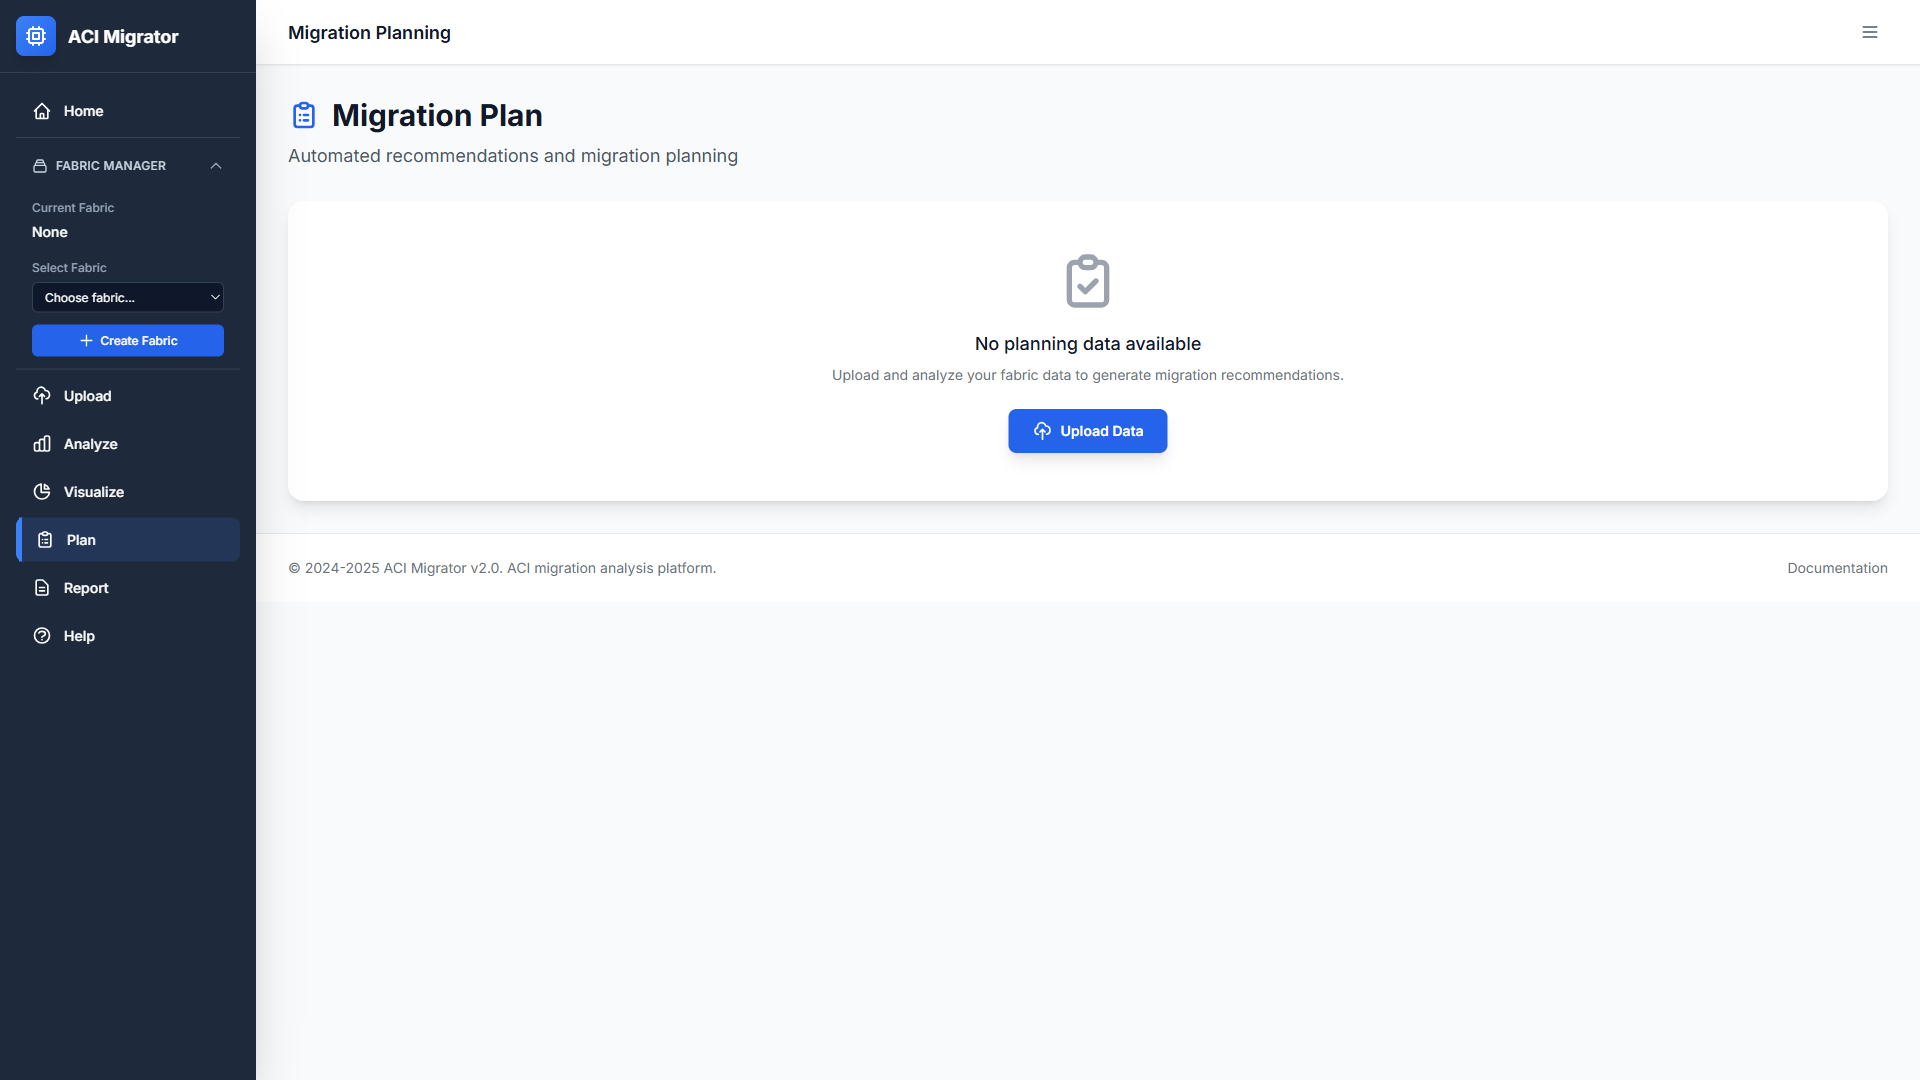
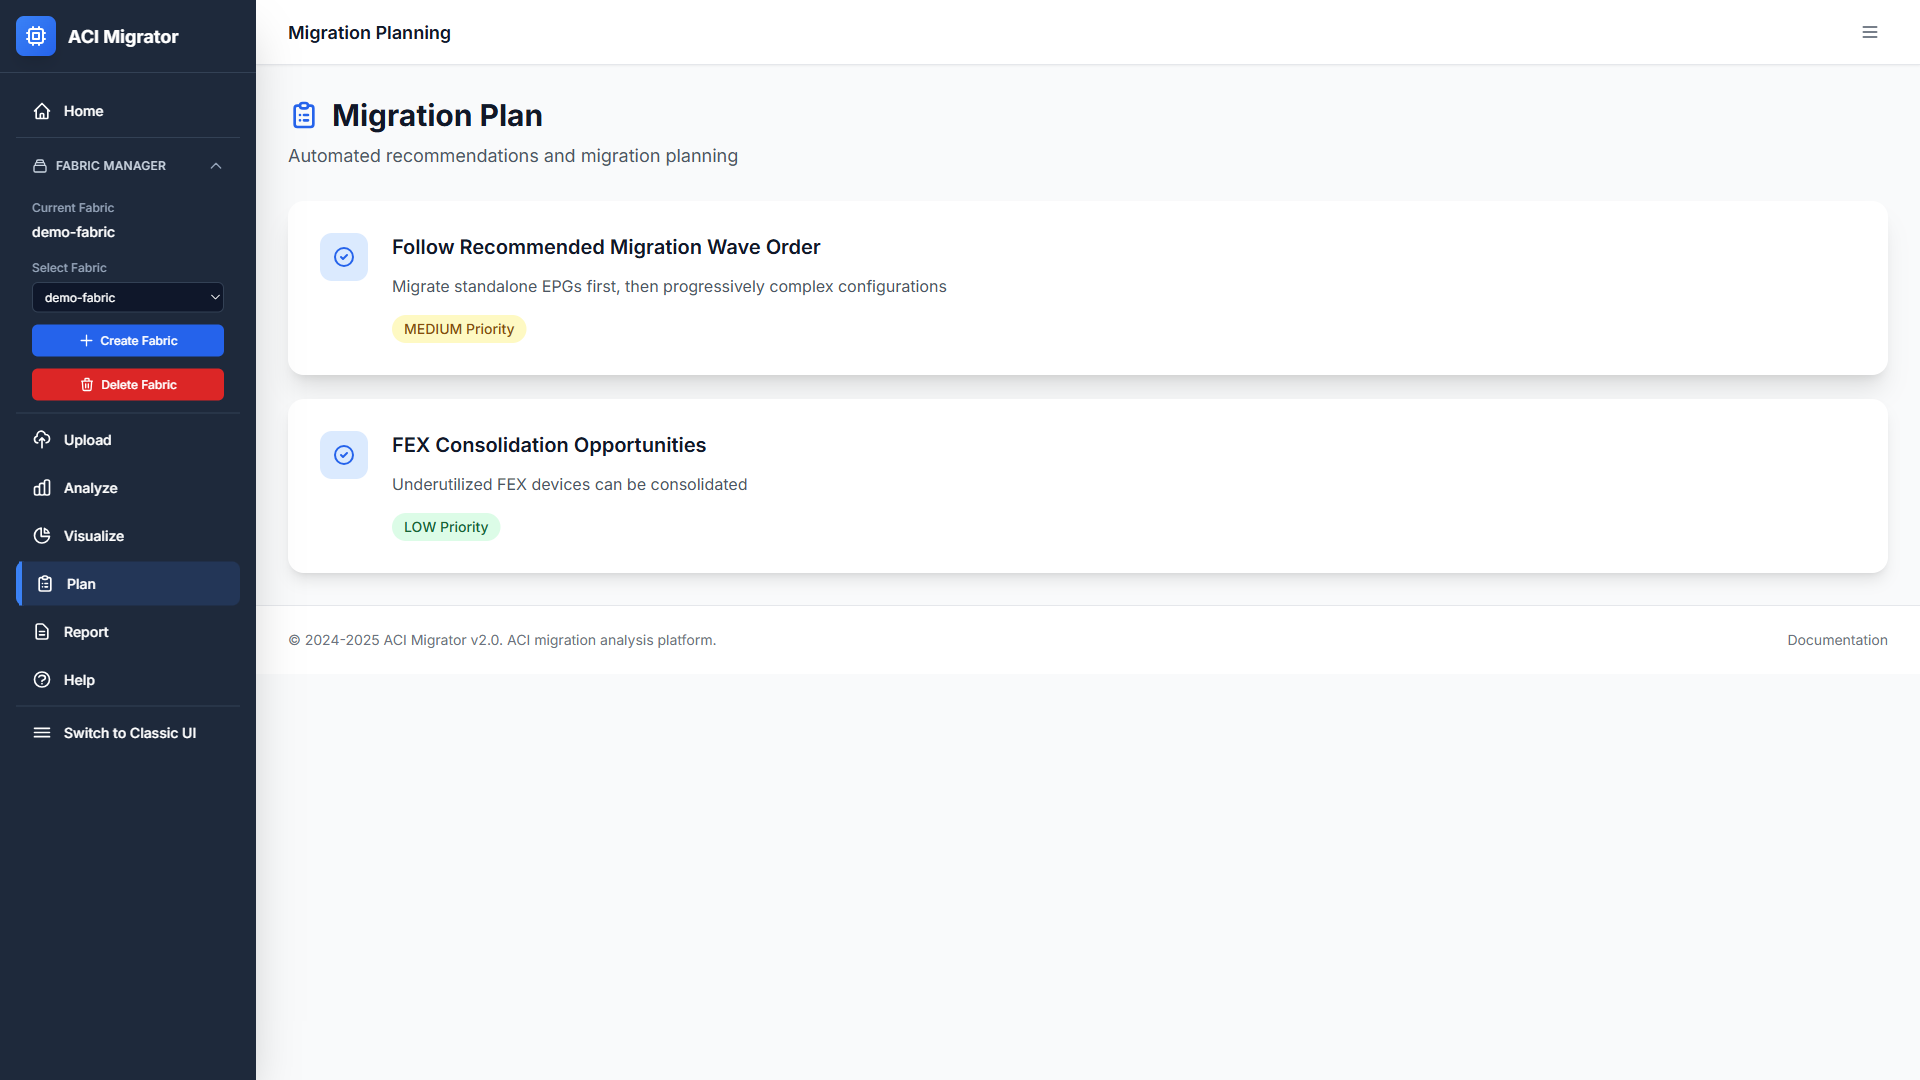
Update README screenshots and capture workflow

diff --git a/capture_screenshots.py b/capture_screenshots.py
@@ -6,6 +6,9 @@ Captures all required UI screenshots for README.md
 import os
 import sys
 import time
+import json
+import urllib.request
+import urllib.error
 from playwright.sync_api import sync_playwright
 
 # Set UTF-8 encoding for console output on Windows
@@ -13,16 +16,64 @@ if sys.platform == 'win32':
     sys.stdout.reconfigure(encoding='utf-8')
 
 # Configuration
-BASE_URL = "http://127.0.0.1:5000"
 SCREENSHOTS_DIR = "docs/screenshots"
 VIEWPORT = {"width": 1920, "height": 1080}
 
 # Create screenshots directory if it doesn't exist
 os.makedirs(SCREENSHOTS_DIR, exist_ok=True)
 
+def resolve_base_url():
+    env_url = os.getenv("ACI_BASE_URL")
+    if env_url:
+        return env_url.rstrip("/")
+
+    candidate_ports = list(range(5001, 5051)) + [5000]
+    for port in candidate_ports:
+        url = f"http://127.0.0.1:{port}"
+        try:
+            with urllib.request.urlopen(f"{url}/health", timeout=2) as resp:
+                if resp.status == 200:
+                    return url
+        except Exception:
+            continue
+
+    raise RuntimeError("Could not detect running ACI Migrator instance on 127.0.0.1:5000-5050")
+
+
+def prepare_demo_data(page, base_url):
+    """Ensure a demo fabric exists and mock data is loaded for screenshots."""
+    demo_fabric = "demo-fabric"
+    page.goto(f"{base_url}/ui/select?mode=legacy&next=/", wait_until="networkidle", timeout=30000)
+
+    js = f"""
+    (async () => {{
+        const fabricName = "{demo_fabric}";
+        try {{
+            await fetch('/fabrics', {{
+                method: 'POST',
+                headers: {{'Content-Type': 'application/json'}},
+                body: JSON.stringify({{name: fabricName}})
+            }});
+        }} catch (e) {{}}
+
+        try {{
+            await fetch('/api/mcp/import', {{
+                method: 'POST',
+                headers: {{'Content-Type': 'application/json'}},
+                body: JSON.stringify({{mcp_url: 'mock', fabric_name: fabricName}})
+            }});
+        }} catch (e) {{}}
+    }})()
+    """
+    page.evaluate(js)
+    page.wait_for_timeout(1500)
+
 def capture_screenshots():
     """Capture all required screenshots"""
     print("Starting screenshot capture for ACI Migrator v2.0...")
+
+    base_url = resolve_base_url()
+    print(f"Using base URL: {base_url}")
 
     with sync_playwright() as p:
         # Launch browser
@@ -31,11 +82,19 @@ def capture_screenshots():
         context = browser.new_context(viewport=VIEWPORT)
         page = context.new_page()
 
+        prepare_demo_data(page, base_url)
+
         screenshots = [
             {
-                "name": "home.png",
-                "url": "/",
-                "title": "Dashboard/Home Page",
+                "name": "home-classic.png",
+                "url": "/ui/select?mode=legacy&next=/",
+                "title": "Dashboard/Home Page (Classic UI)",
+                "wait": 2000
+            },
+            {
+                "name": "home-new.png",
+                "url": "/ui/select?mode=new&next=/",
+                "title": "Dashboard/Home Page (New UI)",
                 "wait": 2000
             },
             {
@@ -49,6 +108,34 @@ def capture_screenshots():
                 "url": "/analyze",
                 "title": "Analyze Data Page",
                 "wait": 1500
+            },
+            {
+                "name": "analyze-validation.png",
+                "url": "/analyze",
+                "title": "Analyze Validation Tab",
+                "wait": 1500,
+                "tab": "validation"
+            },
+            {
+                "name": "analyze-data-explorer.png",
+                "url": "/analyze",
+                "title": "Analyze Data Explorer Tab",
+                "wait": 1500,
+                "tab": "data"
+            },
+            {
+                "name": "analyze-spreadsheet.png",
+                "url": "/analyze",
+                "title": "Analyze Spreadsheet Tab",
+                "wait": 1500,
+                "tab": "spreadsheet"
+            },
+            {
+                "name": "analyze-ports.png",
+                "url": "/analyze",
+                "title": "Analyze Port Status Tab",
+                "wait": 1500,
+                "tab": "ports"
             },
             {
                 "name": "visualize.png",
@@ -75,12 +162,17 @@ def capture_screenshots():
                 print(f"\n[{i}/{len(screenshots)}] Capturing {screenshot['title']}...")
 
                 # Navigate to page
-                url = f"{BASE_URL}{screenshot['url']}"
+                url = f"{base_url}{screenshot['url']}"
                 print(f"   URL: {url}")
                 page.goto(url, wait_until="networkidle", timeout=30000)
 
                 # Wait for animations and content to load
                 page.wait_for_timeout(screenshot['wait'])
+
+                if screenshot.get("tab"):
+                    tab_selector = f"button.analysis-tab[data-panel='{screenshot['tab']}']"
+                    page.click(tab_selector, timeout=10000)
+                    page.wait_for_timeout(800)
 
                 # Take screenshot
                 filepath = os.path.join(SCREENSHOTS_DIR, screenshot['name'])
@@ -96,7 +188,7 @@ def capture_screenshots():
         # Optional: Capture sidebar collapsed view
         try:
             print("\n[Extra] Capturing Sidebar Collapsed View...")
-            page.goto(f"{BASE_URL}/", wait_until="networkidle")
+            page.goto(f"{base_url}/ui/select?mode=legacy&next=/", wait_until="networkidle")
             page.wait_for_timeout(1000)
 
             try:
@@ -123,7 +215,7 @@ def capture_screenshots():
                 user_agent="Mozilla/5.0 (iPhone; CPU iPhone OS 14_0 like Mac OS X) AppleWebKit/605.1.15"
             )
             mobile_page = mobile_context.new_page()
-            mobile_page.goto(f"{BASE_URL}/", wait_until="networkidle")
+            mobile_page.goto(f"{base_url}/ui/select?mode=legacy&next=/", wait_until="networkidle")
             mobile_page.wait_for_timeout(2000)
 
             filepath = os.path.join(SCREENSHOTS_DIR, "mobile-view.png")
@@ -152,7 +244,7 @@ if __name__ == "__main__":
     print("ACI Migrator v2.0 Screenshot Capture Tool")
     print("=" * 70)
     print("\nIMPORTANT: Make sure the Flask application is running.")
-    print(f"Expected URL: {BASE_URL}")
+    print("Expected URL: http://127.0.0.1:<port>")
     print("\nPress Ctrl+C to cancel, or wait 3 seconds to continue...")
 
     try:

diff --git a/README.md b/README.md
@@ -72,25 +72,45 @@ Export comprehensive analysis reports in multiple formats including HTML (intera
 
 ## Screenshots
 
-### Dashboard with Sidebar Navigation
-The professional sidebar navigation provides quick access to all features with collapsible menu and integrated fabric manager.
+### Home (Classic UI)
+The classic dashboard layout with sidebar navigation and fabric manager.
 
-![Dashboard](docs/screenshots/home.png)
+![Home Classic](docs/screenshots/home-classic.png)
 
-**Key Sidebar Features:**
-- Quick navigation to all pages (Home, Upload, Analyze, Visualize, Plan, Report, Help)
-- Integrated Fabric Manager (collapsible panel)
-- Responsive design with mobile support
+### Home (New UI)
+Mission-control layout with a clearer workflow orientation.
+
+![Home New](docs/screenshots/home-new.png)
 
 ### Data Upload Interface
 Drag-and-drop file upload with real-time progress tracking and multi-file queue management.
 
 ![Upload](docs/screenshots/upload.png)
 
-### Analysis Dashboard
-Comprehensive data analysis with interactive tables, search filtering, and data completeness validation.
+### Analysis Overview
+High-level counts and readiness at a glance.
 
-![Analyze](docs/screenshots/analyze.png)
+![Analyze Overview](docs/screenshots/analyze.png)
+
+### Validation
+Completeness and data quality checks before analysis.
+
+![Analyze Validation](docs/screenshots/analyze-validation.png)
+
+### Data Explorer
+Filterable table for all objects.
+
+![Analyze Data Explorer](docs/screenshots/analyze-data-explorer.png)
+
+### Spreadsheet View
+Excel-style grid with per-column filters.
+
+![Analyze Spreadsheet](docs/screenshots/analyze-spreadsheet.png)
+
+### Port Status
+Up/down counts, EPG attachments, and path context.
+
+![Analyze Port Status](docs/screenshots/analyze-ports.png)
 
 ### Migration Planning
 Automated recommendations with priority scoring, implementation steps, and risk assessments.
